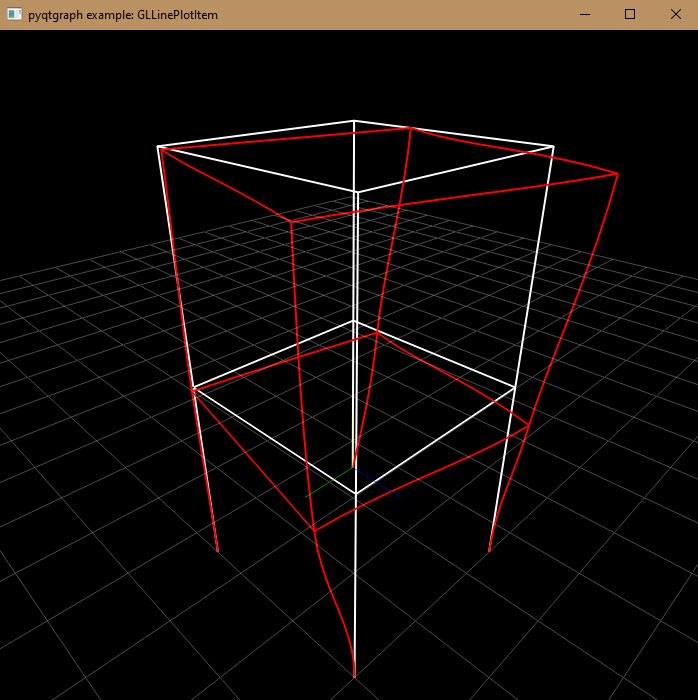
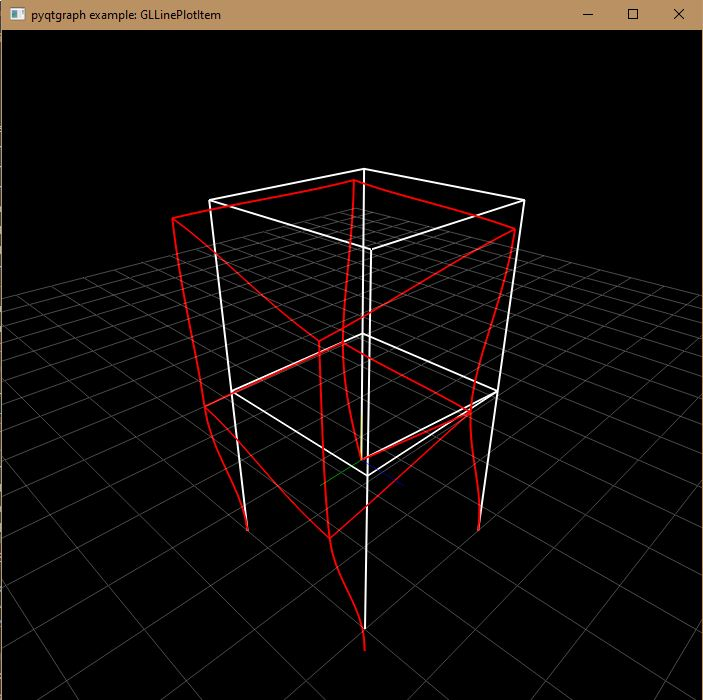
Added new JPG file

diff --git a/Examples/Two_Story_Frame.py b/Examples/Two_Story_Frame.py
@@ -3,6 +3,12 @@
 from StructuralAnalysis import Node, Structure, Section, Material, Solver, Visualization
 from StructuralAnalysis.FrameElements import *
 
+# General considerations:
+#    - y-axis is upward
+#    - use consistent units
+#    - each node has 6 degrees of freedom dx: dof_1, dy: dof_2, dz: dof_3, rx: dof_4, ry: dof_5, rz: dof_6
+
+# create node objects <Node(x, y, z)>
 n1 = Node(0, 0, 0)
 n2 = Node(6000, 0, 0)
 n3 = Node(0, 0, 6000)
@@ -18,42 +24,43 @@ n10 = Node(6000, 12000, 0)
 n11 = Node(0, 12000, 6000)
 n12 = Node(6000, 12000, 6000)
 
+# create section object
+user_defined_section = Section.ArbitrarySection(area=3000, inertia_y=180 * 10 ** 6, inertia_z=180 * 10 ** 6,
+                                                polar_inertia=360*10**6, warping_rigidity=0)
 
-section = Section.ArbitrarySection(3000, 180*10**6, 180*10**6, 360*10**6, 0)
+rectangular_section = Section.Rectangle(breadth=150, depth=300)
 
-steel = Material.Steel(250, 400, 200000, 0.2)
+# create material object
+steel = Material.Steel(yield_strength=250, ultimate_strength=400, elasticity_modulus=200000, poissons_ratio=0.2)
 
-e15 = FrameElement(n1, n5, section, steel)
-e26 = FrameElement(n2, n6, section, steel)
-e37 = FrameElement(n3, n7, section, steel)
-e48 = FrameElement(n4, n8, section, steel)
+# create frame element objects <FrameElement(start_node: Node, end_node: Node, section: Section, material: Material)>
+e15 = FrameElement(n1, n5, user_defined_section, steel)
+e26 = FrameElement(n2, n6, user_defined_section, steel)
+e37 = FrameElement(n3, n7, rectangular_section, steel)
+e48 = FrameElement(n4, n8, rectangular_section, steel)
 
-e56 = FrameElement(n5, n6, section, steel)
-e68 = FrameElement(n6, n8, section, steel)
-e87 = FrameElement(n8, n7, section, steel)
-e57 = FrameElement(n5, n7, section, steel)
+e56 = FrameElement(n5, n6, user_defined_section, steel)
+e68 = FrameElement(n6, n8, user_defined_section, steel)
+e87 = FrameElement(n8, n7, rectangular_section, steel)
+e57 = FrameElement(n5, n7, rectangular_section, steel)
 
-e59 = FrameElement(n5, n9, section, steel)
-e610 = FrameElement(n10, n6, section, steel)
-e711 = FrameElement(n11, n7, section, steel)
-e812 = FrameElement(n8, n12, section, steel)
+e59 = FrameElement(n5, n9, user_defined_section, steel)
+e610 = FrameElement(n10, n6, user_defined_section, steel)
+e711 = FrameElement(n11, n7, rectangular_section, steel)
+e812 = FrameElement(n8, n12, rectangular_section, steel)
 
-e910 = FrameElement(n9, n10, section, steel)
-e1112 = FrameElement(n11, n12, section, steel)
-e911 = FrameElement(n11, n9, section, steel)
-e1012 = FrameElement(n10, n12, section, steel)
+e910 = FrameElement(n9, n10, rectangular_section, steel)
+e1112 = FrameElement(n11, n12, rectangular_section, steel)
+e911 = FrameElement(n11, n9, user_defined_section, steel)
+e1012 = FrameElement(n10, n12, user_defined_section, steel)
 
+# create truss element object
+e16 = TrussElement(n1, n6, rectangular_section, steel)
+
+# assign boundary conditions; node_1 is hinged, node_2, 3, 4 are fixed
 n1.dof_1.restrained = True
 n1.dof_2.restrained = True
 n1.dof_3.restrained = True
-
-
-n3.dof_1.restrained = True
-n3.dof_2.restrained = True
-n3.dof_3.restrained = True
-n3.dof_4.restrained = True
-n3.dof_5.restrained = True
-n3.dof_6.restrained = True
 
 n2.dof_1.restrained = True
 n2.dof_2.restrained = True
@@ -62,6 +69,13 @@ n2.dof_4.restrained = True
 n2.dof_5.restrained = True
 n2.dof_6.restrained = True
 
+n3.dof_1.restrained = True
+n3.dof_2.restrained = True
+n3.dof_3.restrained = True
+n3.dof_4.restrained = True
+n3.dof_5.restrained = True
+n3.dof_6.restrained = True
+
 n4.dof_1.restrained = True
 n4.dof_2.restrained = True
 n4.dof_3.restrained = True
@@ -69,14 +83,24 @@ n4.dof_4.restrained = True
 n4.dof_5.restrained = True
 n4.dof_6.restrained = True
 
+# assign loads to node_10 in the x-direction, and to node_6 in the z-direction
 n10.dof_1.force = 2000000
 n6.dof_3.force = 4000000
 
+# assign initial displacement to node_4 in the negative y-direction
+n4.dof_2.displaced = -1000
 
-structure = Structure([e15, e26, e37, e48, e56, e68, e87, e57, e59, e610, e711, e812, e910, e1112, e911, e1012])
+# create structure object
+structure = Structure([e15, e26, e37, e48, e56, e68, e87, e57, e59, e610, e711, e812, e910, e1112, e911, e1012, e16])
 
+# run first_order_elastic analysis
 Solver.analyze_first_order_elastic(structure)
 
+# show undeformed structure
 Visualization.show_structure(structure)
+
+# show deformations <show_deformed_shape(structure, number_of_stations, scale)>
 Visualization.show_deformed_shape(structure, 10, 1)
+
+# show window
 Visualization.execute_qt()

diff --git a/README.md b/README.md
@@ -21,6 +21,8 @@ pip install pyqtgraph==0.11.1
 ## Usage
 
 ```python
+# Two_Story_Frame.py
+
 from StructuralAnalysis import Node, Structure, Section, Material, Solver, Visualization
 from StructuralAnalysis.FrameElements import *
 
@@ -29,63 +31,103 @@ from StructuralAnalysis.FrameElements import *
 #    - use consistent units
 #    - each node has 6 degrees of freedom dx: dof_1, dy: dof_2, dz: dof_3, rx: dof_4, ry: dof_5, rz: dof_6
 
-#create node objects <Node(x, y, z)>
-node_1 = Node(0, 0, 0)
-node_2 = Node(2, 0, 0)
-node_3 = Node(1, 1, 1)
-node_4 = Node(1, 0, 2)
+# create node objects <Node(x, y, z)>
+n1 = Node(0, 0, 0)
+n2 = Node(6000, 0, 0)
+n3 = Node(0, 0, 6000)
+n4 = Node(6000, 0, 6000)
 
-#create section object <Section.Circle(radius)>
-circle = Section.Circle(0.05)
+n5 = Node(0, 6000, 0)
+n6 = Node(6000, 6000, 0)
+n7 = Node(0, 6000, 6000)
+n8 = Node(6000, 6000, 6000)
 
-#create section object <Section.Square(breadth, depth)>
-rectangle = Section.Rectangle(0.03, 0.06)
+n9 = Node(0, 12000, 0)
+n10 = Node(6000, 12000, 0)
+n11 = Node(0, 12000, 6000)
+n12 = Node(6000, 12000, 6000)
 
-#create material object <Material.Steel(yield_strength, ultimate_strength, modulus_of_elasticity. poissons_ratio)>
-steel = Material.Steel(250000, 400000, 200*10**6, 0.2)
+# create section object
+user_defined_section = Section.ArbitrarySection(area=3000, inertia_y=180 * 10 ** 6, inertia_z=180 * 10 ** 6,
+                                                polar_inertia=360*10**6, warping_rigidity=0)
 
-#create frame element objects <FrameElement(start_node: Node, end_node: Node, section: Section, material: Material)>
-element_1 = FrameElement(node_1, node_3, rectangle, steel)
-element_2 = FrameElement(node_2, node_3, rectangle, steel)
+rectangular_section = Section.Rectangle(breadth=150, depth=300)
 
-#create truss element object <TrussElement(start_node: Node, end_node: Node, section: Section, material: Material)>
-element_3 = TrussElement(node_4, node_3, circle, steel)
+# create material object
+steel = Material.Steel(yield_strength=250, ultimate_strength=400, elasticity_modulus=200000, poissons_ratio=0.2)
 
-#define fixities; node_1 is fixed, node_2 & node_4 are hinged
-node_1.dof_1.restrained = True
-node_1.dof_2.restrained = True
-node_1.dof_3.restrained = True
-node_1.dof_4.restrained = True
-node_1.dof_5.restrained = True
-node_1.dof_6.restrained = True
+# create frame element objects <FrameElement(start_node: Node, end_node: Node, section: Section, material: Material)>
+e15 = FrameElement(n1, n5, user_defined_section, steel)
+e26 = FrameElement(n2, n6, user_defined_section, steel)
+e37 = FrameElement(n3, n7, rectangular_section, steel)
+e48 = FrameElement(n4, n8, rectangular_section, steel)
 
-node_2.dof_1.restrained = True
-node_2.dof_2.restrained = True
-node_2.dof_3.restrained = True
+e56 = FrameElement(n5, n6, user_defined_section, steel)
+e68 = FrameElement(n6, n8, user_defined_section, steel)
+e87 = FrameElement(n8, n7, rectangular_section, steel)
+e57 = FrameElement(n5, n7, rectangular_section, steel)
 
-node_4.dof_1.restrained = True
-node_4.dof_2.restrained = True
-node_4.dof_3.restrained = True
+e59 = FrameElement(n5, n9, user_defined_section, steel)
+e610 = FrameElement(n10, n6, user_defined_section, steel)
+e711 = FrameElement(n11, n7, rectangular_section, steel)
+e812 = FrameElement(n8, n12, rectangular_section, steel)
 
-#define acting forces; applied to node_3 in the z-direction
-node_3.dof_3.force = 700
+e910 = FrameElement(n9, n10, rectangular_section, steel)
+e1112 = FrameElement(n11, n12, rectangular_section, steel)
+e911 = FrameElement(n11, n9, user_defined_section, steel)
+e1012 = FrameElement(n10, n12, user_defined_section, steel)
 
-#set initial displacement to node 2 in the y-direction
-node_2.dof_2.displacement = 0.001
+# create truss element object
+e16 = TrussElement(n1, n6, rectangular_section, steel)
 
-#create sttucture object <Structure(elements: list(Element))>
-structure = Structure([element_1, element_2, element_3])
+# assign boundary conditions; node_1 is hinged, node_2, 3, 4 are fixed
+n1.dof_1.restrained = True
+n1.dof_2.restrained = True
+n1.dof_3.restrained = True
 
-#run first order elastic analysis
+n2.dof_1.restrained = True
+n2.dof_2.restrained = True
+n2.dof_3.restrained = True
+n2.dof_4.restrained = True
+n2.dof_5.restrained = True
+n2.dof_6.restrained = True
+
+n3.dof_1.restrained = True
+n3.dof_2.restrained = True
+n3.dof_3.restrained = True
+n3.dof_4.restrained = True
+n3.dof_5.restrained = True
+n3.dof_6.restrained = True
+
+n4.dof_1.restrained = True
+n4.dof_2.restrained = True
+n4.dof_3.restrained = True
+n4.dof_4.restrained = True
+n4.dof_5.restrained = True
+n4.dof_6.restrained = True
+
+# assign loads to node_10 in the x-direction, and to node_6 in the z-direction
+n10.dof_1.force = 2000000
+n6.dof_3.force = 4000000
+
+# assign initial displacement to node_4 in the negative y-direction
+n4.dof_2.displaced = -1000
+
+# create structure object
+structure = Structure([e15, e26, e37, e48, e56, e68, e87, e57, e59, e610, e711, e812, e910, e1112, e911, e1012, e16])
+
+# run first_order_elastic analysis
 Solver.analyze_first_order_elastic(structure)
 
-#display structure (x is blue, y is yellow, z is green)
+# show undeformed structure
 Visualization.show_structure(structure)
 
-#display deformed structure <show_deformed_shape(structure, element_signments, scale)> (displayed in red)
-Visualization.show_deformed_shape(structure, 10, 200)
+# show deformations <show_deformed_shape(structure, number_of_stations, scale)>
+Visualization.show_deformed_shape(structure, 10, 1)
 
+# show window
 Visualization.execute_qt()
+
 
 ```
 ## Output
@@ -96,11 +138,23 @@ The axis colors are as follows:
 - Yellow: Y-axis
 - Green: Z-axis
  
-![alt text](https://github.com/Hazem-Kassab/StructuralAnalysis/blob/master/Examples/Pyramid_Frame.JPG?raw=true)
+
 
 ## Gallary
 Python files for below pictures can be found in the "Examples" folder.
+* Examples/ Hinged_Fixed_2D_Frame.py
+![alt text](https://github.com/Hazem-Kassab/StructuralAnalysis/blob/master/Examples/Hinged_Fixed_2D_Frame.JPG?raw=true)
+* Examples/ Pyramid_Frame.py
+![alt text](https://github.com/Hazem-Kassab/StructuralAnalysis/blob/master/Examples/Pyramid_Frame.JPG?raw=true)
+* Examples/ Two_Story_Frame.py
 ![alt text](https://github.com/Hazem-Kassab/StructuralAnalysis/blob/master/Examples/Two_Story_Frame.JPG?raw=true)
+* Examples/ Frame_Truss.py
+![alt text](https://github.com/Hazem-Kassab/StructuralAnalysis/blob/master/Examples/Humburg-Germany-Airport-Terminal.jpg?raw=true)
+![alt text](https://github.com/Hazem-Kassab/StructuralAnalysis/blob/master/Examples/Frame_Truss.JPG?raw=true)
+![alt text](https://github.com/Hazem-Kassab/StructuralAnalysis/blob/master/Examples/Frame_Truss_Deformed_Shape.JPG?raw=true)
+![alt text](https://github.com/Hazem-Kassab/StructuralAnalysis/blob/master/Examples/Hamburg_Airport_Prototype.JPG?raw=true)
+
+
 ## Under Development
 The following enhancements will be included soon:
  * Releases at element end nodes.
